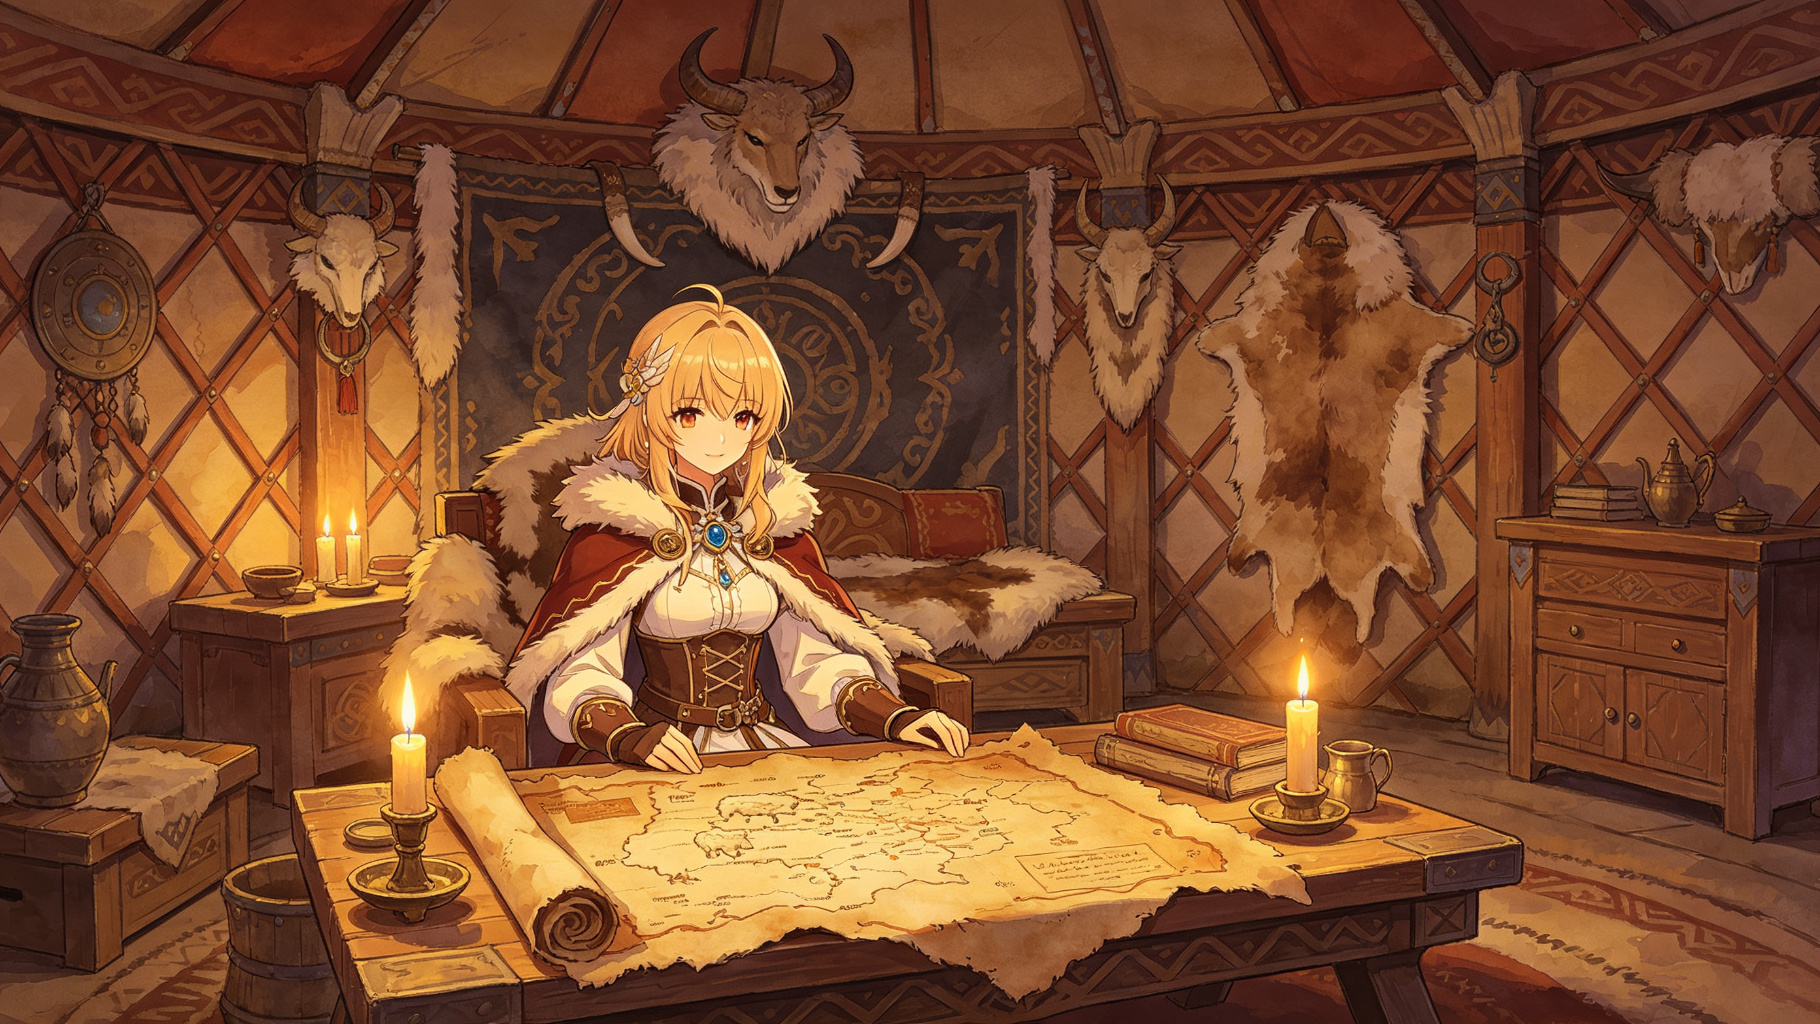
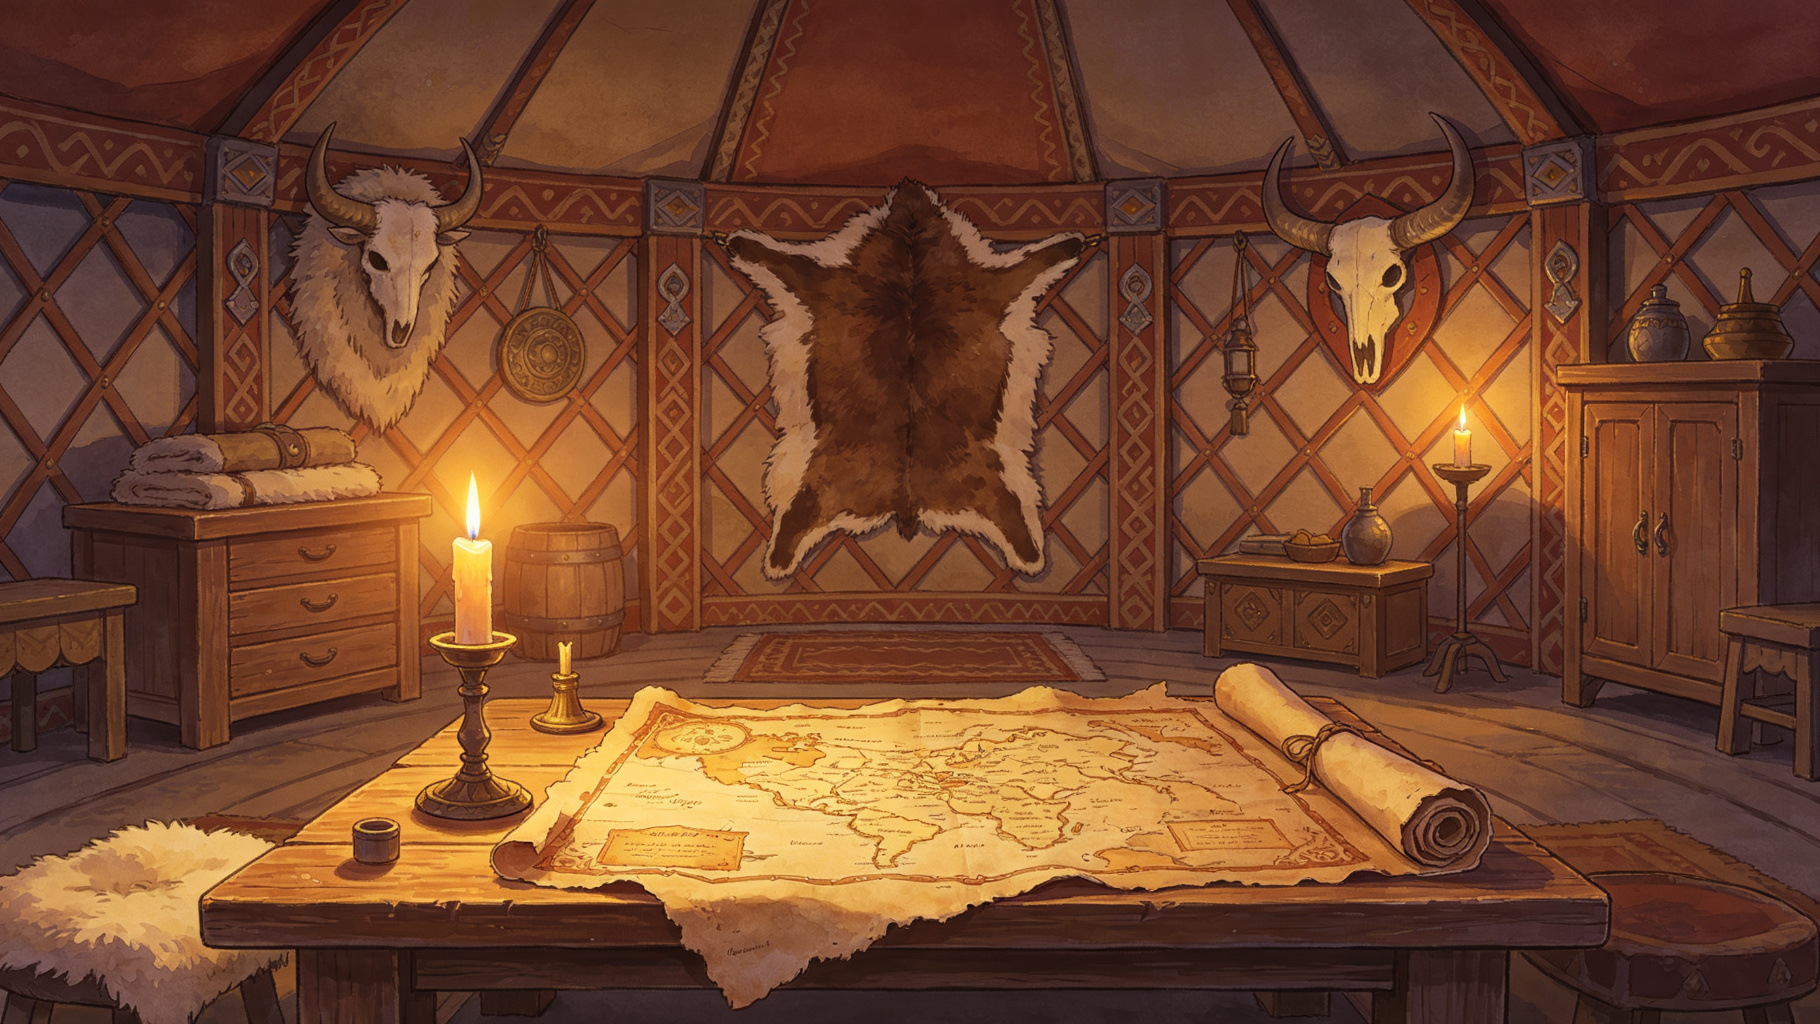
feat: 第五关季游月聪子画风重绘，多等级徽章系统，结局背景
素材重绘：
- 4张背景全部无人物，季游月聪子(公主同盟)日系动漫幻想画风
- 成吉思汗半身立绘：幻想风格金色盔甲+宝石符文+红色毛皮
- 参谋半身立绘：蒙古风格青色长袍+皮帽+算筹，不再是汉服
- 3张结局背景：完美通关(凯旋)/合格通关(营地)/失败(残旗断戟)
- 3枚多等级徽章：铜色(远征)/银色(苦战)/金色(完美)

系统功能：
- meta.json支持badges数组，每个徽章关联outcomes结局
- meta.json支持ending_backgrounds，不同结局不同背景
- onLevelWin接收outcome参数，匹配对应徽章和背景
- 存档新增badge_tiers字段，高等级覆盖低等级，低等级不覆盖高等级
- showSettlement支持结局背景显示
- story_engine win节点传递sandboxOutcome
- 沙盘UI彻底去掉实时消耗显示，出征按钮一直可用
- puzzle-container添加overflow:hidden防止UI穿透对话框
- 版本号升级v2.6.0

diff --git a/js/main.js b/js/main.js
@@ -110,27 +110,46 @@ class MathTownGame {
     }
   }
 
-  async onLevelWin() {
+  async onLevelWin(outcome) {
     if (!this.session || this.session._ended) return;
     const elapsedMs = this.session.elapsedMs;
     const timeStr = this.session.formatTime(elapsedMs);
     const levelInfo = this.packLoader.getLevel(this.currentLevelId);
-    // 立即停止计时器
+    const meta = levelInfo && levelInfo.meta;
     this.session._ended = true;
     if (this.session._timerInterval) {
       clearInterval(this.session._timerInterval);
       this.session._timerInterval = null;
     }
-    // 异步保存数据
+    let badgeInfo = null;
+    let endingBg = null;
+    if (meta && meta.badges && outcome) {
+      const matchedBadge = meta.badges.find(b => b.outcomes && b.outcomes.includes(outcome));
+      if (matchedBadge) {
+        badgeInfo = { name: matchedBadge.name, image: levelInfo.path + '/' + matchedBadge.image, tier: matchedBadge.tier, tier_order: matchedBadge.tier_order };
+      }
+      if (meta.ending_backgrounds && meta.ending_backgrounds[outcome]) {
+        endingBg = levelInfo.path + '/' + meta.ending_backgrounds[outcome];
+      }
+    } else if (meta && meta.badge) {
+      badgeInfo = { name: meta.badge.name, image: levelInfo.path + '/' + meta.badge.image };
+    }
     (async () => {
       try {
         const save = await this.storage.getSave();
         if (!save.completed_levels) save.completed_levels = {};
         if (!save.best_times) save.best_times = {};
         if (!save.unlocked_levels) save.unlocked_levels = [];
+        if (!save.badge_tiers) save.badge_tiers = {};
         save.completed_levels[this.currentLevelId] = true;
         if (!save.best_times[this.currentLevelId] || elapsedMs < save.best_times[this.currentLevelId]) {
           save.best_times[this.currentLevelId] = elapsedMs;
+        }
+        if (badgeInfo && badgeInfo.tier_order) {
+          const currentTier = save.badge_tiers[this.currentLevelId];
+          if (!currentTier || badgeInfo.tier_order > currentTier) {
+            save.badge_tiers[this.currentLevelId] = badgeInfo.tier_order;
+          }
         }
         const next = this.packLoader.getNextLevel(this.currentLevelId);
         if (next && !save.unlocked_levels.includes(next.compositeId)) {
@@ -141,14 +160,11 @@ class MathTownGame {
         console.error('保存通关数据失败:', e);
       }
     })();
-    // 立即销毁会话并显示结算
     if (this.session) {
       this.session.destroy();
       this.session = null;
     }
-    const badge = levelInfo && levelInfo.meta && levelInfo.meta.badge;
-    const badgeInfo = badge ? { name: badge.name, image: levelInfo.path + '/' + badge.image } : null;
-    this.ui.showSettlement({ timeStr, elapsedMs }, badgeInfo);
+    this.ui.showSettlement({ timeStr, elapsedMs, outcome, endingBg }, badgeInfo);
   }
 
   restartLevel() {

diff --git a/index.html b/index.html
@@ -4,7 +4,7 @@
 <meta charset="UTF-8">
 <meta name="viewport" content="width=device-width, initial-scale=1.0">
 <title>麦斯镇 MathTown</title>
-<link rel="stylesheet" href="css/main.css?v=2.5.2">
+<link rel="stylesheet" href="css/main.css?v=2.6.0">
 </head>
 <body>
 
@@ -199,13 +199,13 @@
   </div>
 </div>
 
-<script src="js/system/storage.js?v=2.5.2"></script>
-<script src="js/system/audio.js?v=2.5.2"></script>
-<script src="js/system/pack_loader.js?v=2.5.2"></script>
-<script src="js/system/story_engine.js?v=2.5.2"></script>
-<script src="js/system/session.js?v=2.5.2"></script>
-<script src="js/system/settler.js?v=2.5.2"></script>
-<script src="js/ui/ui_manager.js?v=2.5.2"></script>
-<script src="js/main.js?v=2.5.2"></script>
+<script src="js/system/storage.js?v=2.6.0"></script>
+<script src="js/system/audio.js?v=2.6.0"></script>
+<script src="js/system/pack_loader.js?v=2.6.0"></script>
+<script src="js/system/story_engine.js?v=2.6.0"></script>
+<script src="js/system/session.js?v=2.6.0"></script>
+<script src="js/system/settler.js?v=2.6.0"></script>
+<script src="js/ui/ui_manager.js?v=2.6.0"></script>
+<script src="js/main.js?v=2.6.0"></script>
 </body>
 </html>

diff --git a/js/ui/ui_manager.js b/js/ui/ui_manager.js
@@ -630,6 +630,19 @@ class UIManager {
   showSettlement(result, badgeInfo) {
     this.showScreen('settlement');
     this.game.audio.playBGM('assets/audio/bgm_menu.mp3');
+    const bgEl = document.querySelector('#screen-settlement .settlement-bg');
+    if (bgEl) {
+      if (result.endingBg) {
+        bgEl.style.backgroundImage = 'url(' + result.endingBg + ')';
+        bgEl.style.backgroundSize = 'cover';
+        bgEl.style.backgroundPosition = 'center';
+        bgEl.style.opacity = '1';
+        bgEl.style.filter = 'brightness(0.55)';
+      } else {
+        bgEl.style.backgroundImage = '';
+        bgEl.style.filter = '';
+      }
+    }
     document.getElementById('set-time').textContent = result.timeStr;
     const badgeEl = document.getElementById('set-badge');
     if (badgeInfo) {

diff --git a/js/system/story_engine.js b/js/system/story_engine.js
@@ -104,7 +104,7 @@ class StoryEngine {
       case 'sandbox':
         return await this._startSandbox(node);
       case 'win':
-        this.game.onLevelWin();
+        this.game.onLevelWin(this.game.session && this.game.session.sandboxOutcome);
         return true;
       default:
         console.warn('Unknown story node type:', node.type);
